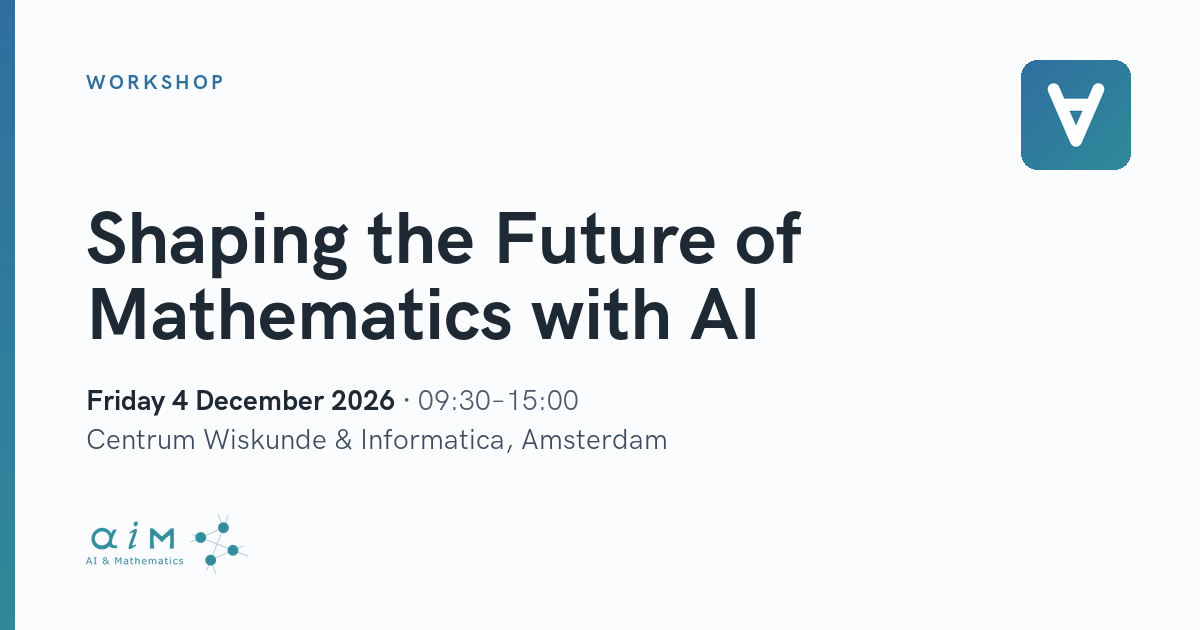
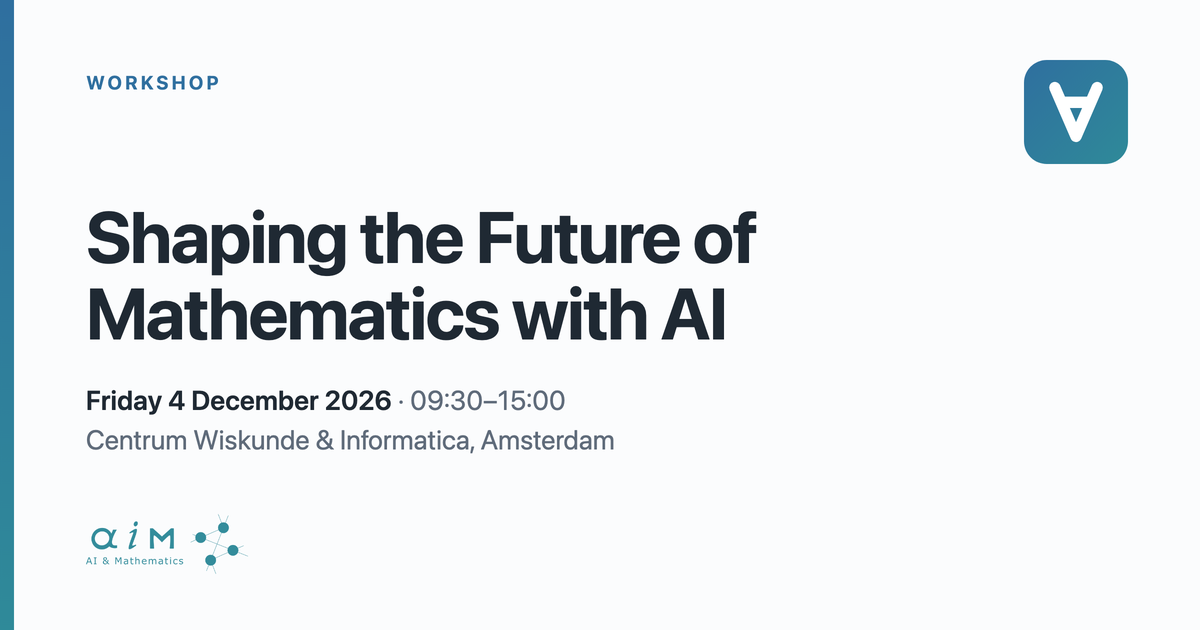
Open registration through the CWI store
The store sends X-Frame-Options: DENY, so it cannot be embedded the way
the Microsoft Form was; /register/ links out to it instead, with the fee
and what it covers stated before the button.

The page said the workshop was free to attend, which the EUR 35 ticket
contradicts, so that claim is gone.

Also regenerates the sharing card, which still carried the old date and
time, and drops the stale Microsoft Forms comment from the config.

diff --git a/register.html b/register.html
@@ -9,9 +9,9 @@ image: /assets/img/social-card.png
   <p class="hero__kicker"><a class="hero__back" href="{{ '/' | relative_url }}">{{ site.title }}</a></p>
   <h1 class="hero__title">Registration</h1>
   <p class="hero__lead">
-    The workshop is free to attend and open to everyone doing mathematics in the
-    Netherlands, at any career stage. Places are limited by the size of the room,
-    so please register in advance.
+    The workshop is open to everyone doing mathematics in the Netherlands, at any
+    career stage. Places are limited by the size of the room, so please register
+    in advance.
   </p>
 
   <dl class="facts">
@@ -32,27 +32,16 @@ image: /assets/img/social-card.png
 
 <section class="section" id="form">
   <h2>Register</h2>
-  {%- if site.workshop.registration_form_url and site.workshop.registration_form_url != "" -%}
-    <p class="section__note">
-      The form asks for your name, e-mail and affiliation, your career stage, and
-      which questions you would like the workshop to discuss.
+  {%- if site.workshop.registration_url and site.workshop.registration_url != "" -%}
+    <p>
+      Registration runs through the CWI store, which handles the payment. You will
+      be asked to create an account there if you do not have one. The registration
+      fee of {{ site.workshop.registration_fee }} includes coffee, tea, refreshments,
+      and lunch.
     </p>
-    <div class="form-embed">
-      <iframe
-        src="{{ site.workshop.registration_form_url }}"
-        title="Registration form"
-        loading="lazy"
-        width="100%"
-        height="1650"
-        frameborder="0"
-        marginheight="0"
-        marginwidth="0">Loading the registration form&hellip;</iframe>
-    </div>
-    <p class="section__note">
-      Registration is handled by Microsoft Forms, so the form above will not
-      appear if your browser blocks third-party frames.
-      <a href="{{ site.workshop.registration_form_url | remove: '&embed=true' }}">Open the form in a new tab</a>
-      if you would rather fill it in there.
+    <p class="hero__actions">
+      <a class="button" href="{{ site.workshop.registration_url }}">Register at the CWI store</a>
+      <a class="button button--quiet" href="{{ '/calendar.ics' | relative_url }}">Add to calendar</a>
     </p>
   {%- else -%}
     <p class="notice">

diff --git a/index.html b/index.html
@@ -28,7 +28,7 @@ image: /assets/img/social-card.png
     </div>
   </dl>
 
-  {%- if site.workshop.registration_form_url and site.workshop.registration_form_url != "" -%}
+  {%- if site.workshop.registration_url and site.workshop.registration_url != "" -%}
     <p class="hero__actions">
       <a class="button" href="{{ '/register/' | relative_url }}">Register</a>
       <a class="button button--quiet" href="{{ '/calendar.ics' | relative_url }}">Add to calendar</a>

diff --git a/README.md b/README.md
@@ -33,14 +33,14 @@ python3 tools/social_card.py
 
 ## Opening registration
 
-Registration uses a Microsoft Form in TU Delft's Microsoft 365. Its embed URL
-(in Forms: **Collect responses > `</>`**, the `src="..."` value) sits in
-`workshop.registration_form_url` in `_config.yml`. While it is set, the form is
-embedded on `/register/` and the front page shows a "Register" button. Empty it
-to close registration: both pages then say registration is not open.
+Registration and payment run through CWI's store. The product page URL sits in
+`workshop.registration_url` in `_config.yml`, with the price in
+`workshop.registration_fee`. While the URL is set, `/register/` shows a button
+to the store and the front page shows a "Register" button. Empty the URL to
+close registration: both pages then say registration is temporarily closed.
 
-The form must be set to **Anyone can respond**, or everyone outside TU Delft is
-asked to sign in and cannot register.
+The store sends `X-Frame-Options: DENY`, so it cannot be embedded in the page;
+`/register/` links out to it instead.
 
 ## Local preview
 
